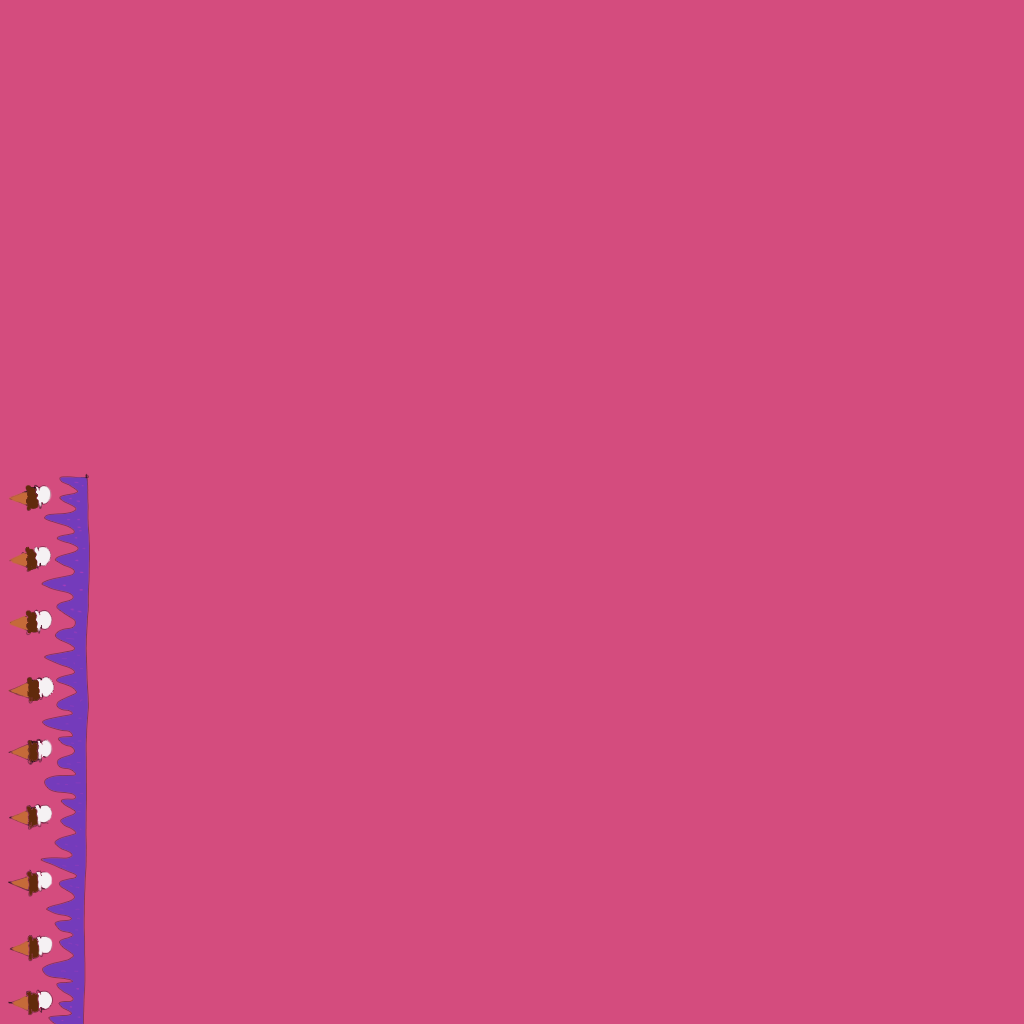
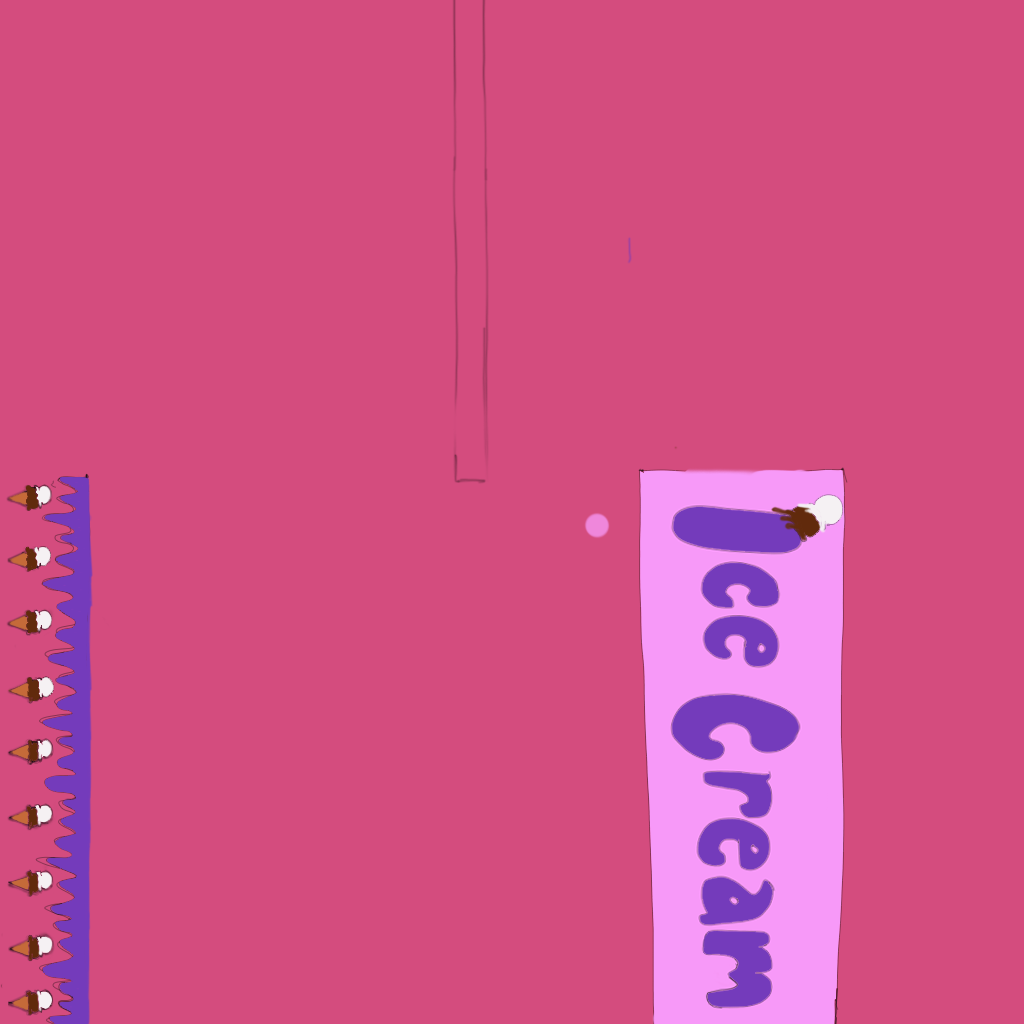
Only pickup new ice cream at the ice cream truck

diff --git a/Nikrykal/Assets/Scripts/IceCreamPlayer.cs b/Nikrykal/Assets/Scripts/IceCreamPlayer.cs
@@ -7,19 +7,41 @@ public class IceCreamPlayer : MonoBehaviour
 {
     private IceCreamCone m_IceCreamCone;
     private ThirdPersonUserControl m_ThirdPersonUserControl;
+    private IceCreamInteraction m_IceCreamInteraction;
+    bool bCanPickupNewIceCream = false;
     // Start is called before the first frame update
     void Start()
     {
         m_IceCreamCone = GetComponentInChildren<IceCreamCone>();
         m_ThirdPersonUserControl = GetComponent<ThirdPersonUserControl>();
+        m_IceCreamInteraction = GameObject.Find("IceCreamTruck").GetComponentInChildren<IceCreamInteraction>();
+        Debug.Log("IceCreamInteraction: " + m_IceCreamInteraction.name);
     }
 
     // Update is called once per frame
     void Update()
     {
-        if (hinput.gamepad[m_ThirdPersonUserControl.GamepadIndex].A.justPressed)
+        if (bCanPickupNewIceCream && hinput.gamepad[m_ThirdPersonUserControl.GamepadIndex].A.justPressed)
         {
             m_IceCreamCone.PickupNewIceCream();
+        }
+    }
+
+    void OnTriggerEnter(Collider col)
+    {
+        Debug.Log("collided with :" + col.name.ToString());
+        if (col.name == m_IceCreamInteraction.name)
+        {
+            bCanPickupNewIceCream = true;
+        }
+    }
+
+    void OnTriggerExit(Collider col)
+    {
+        Debug.Log("collided with :" + col.name.ToString());
+        if (col.name == m_IceCreamInteraction.name)
+        {
+            bCanPickupNewIceCream = false;
         }
     }
 }

diff --git a/Nikrykal/Assets/Scripts/IceCreamCone.cs b/Nikrykal/Assets/Scripts/IceCreamCone.cs
@@ -16,16 +16,15 @@ public class IceCreamCone : MonoBehaviour
     // Start is called before the first frame update
     void Start()
     {
-        TimeElapsed = 0.0f;
-        CurrentBallIndex = 0;
-        CurrentBall = Balls[CurrentBallIndex];
+        PickupNewIceCream();
     }
 
     public void PickupNewIceCream()
     {
+        TimeElapsed = 0.0f;
         CurrentBallIndex = 0;
         CurrentBall = Balls[CurrentBallIndex];
-        foreach(GameObject Ball in Balls)
+        foreach (GameObject Ball in Balls)
         {
             Ball.SetActive(true);
         }

diff --git a/Nikrykal/Assets/Scripts/IceCreamInteraction.cs b/Nikrykal/Assets/Scripts/IceCreamInteraction.cs
@@ -1,0 +1,18 @@
+using System.Collections;
+using System.Collections.Generic;
+using UnityEngine;
+
+public class IceCreamInteraction : MonoBehaviour
+{
+    // Start is called before the first frame update
+    void Start()
+    {
+        
+    }
+
+    // Update is called once per frame
+    void Update()
+    {
+        
+    }
+}
